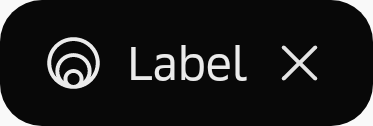
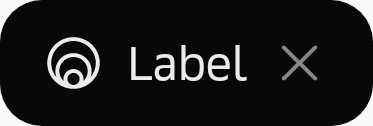
test(playground/sandbox): Chip's screenshots were updated. Compare threshold were decreased.

Changed region(s): [[0.7373, 0.3571, 0.8552, 0.6429]]

diff --git a/playground/sandbox/src/test/kotlin/com/sdds/playground/sandbox/RoborazziConfig.kt b/playground/sandbox/src/test/kotlin/com/sdds/playground/sandbox/RoborazziConfig.kt
@@ -21,7 +21,7 @@ open class RoborazziConfig {
             },
             roborazziOptions = RoborazziOptions(
                 compareOptions = RoborazziOptions.CompareOptions(
-                    changeThreshold = 0.01f,
+                    changeThreshold = 0.005f,
                 ),
             ),
         ),
